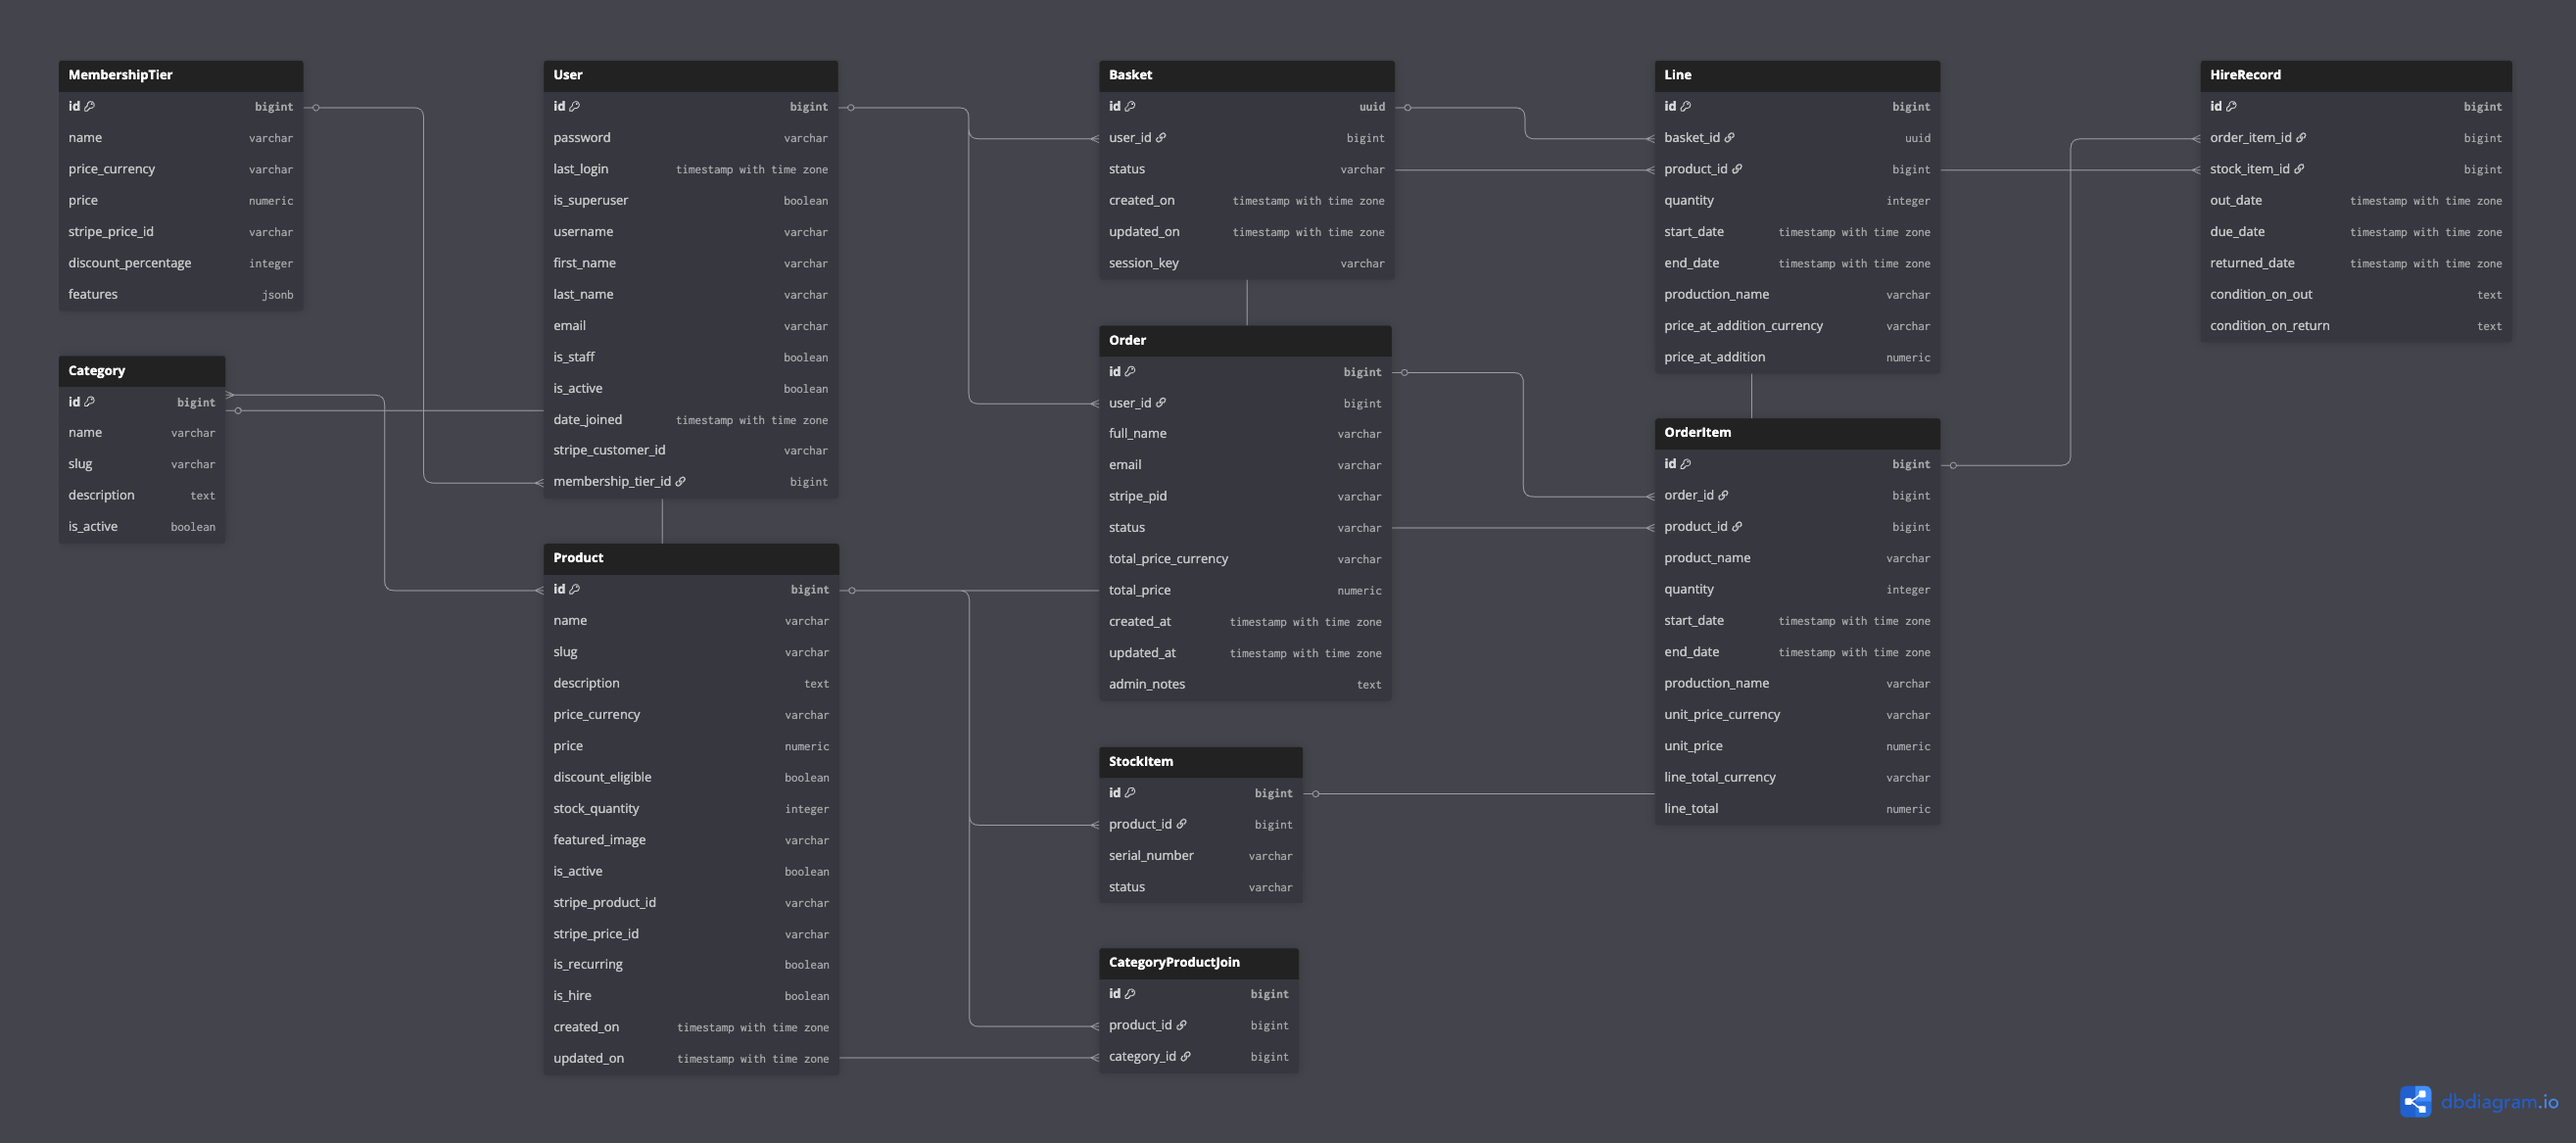
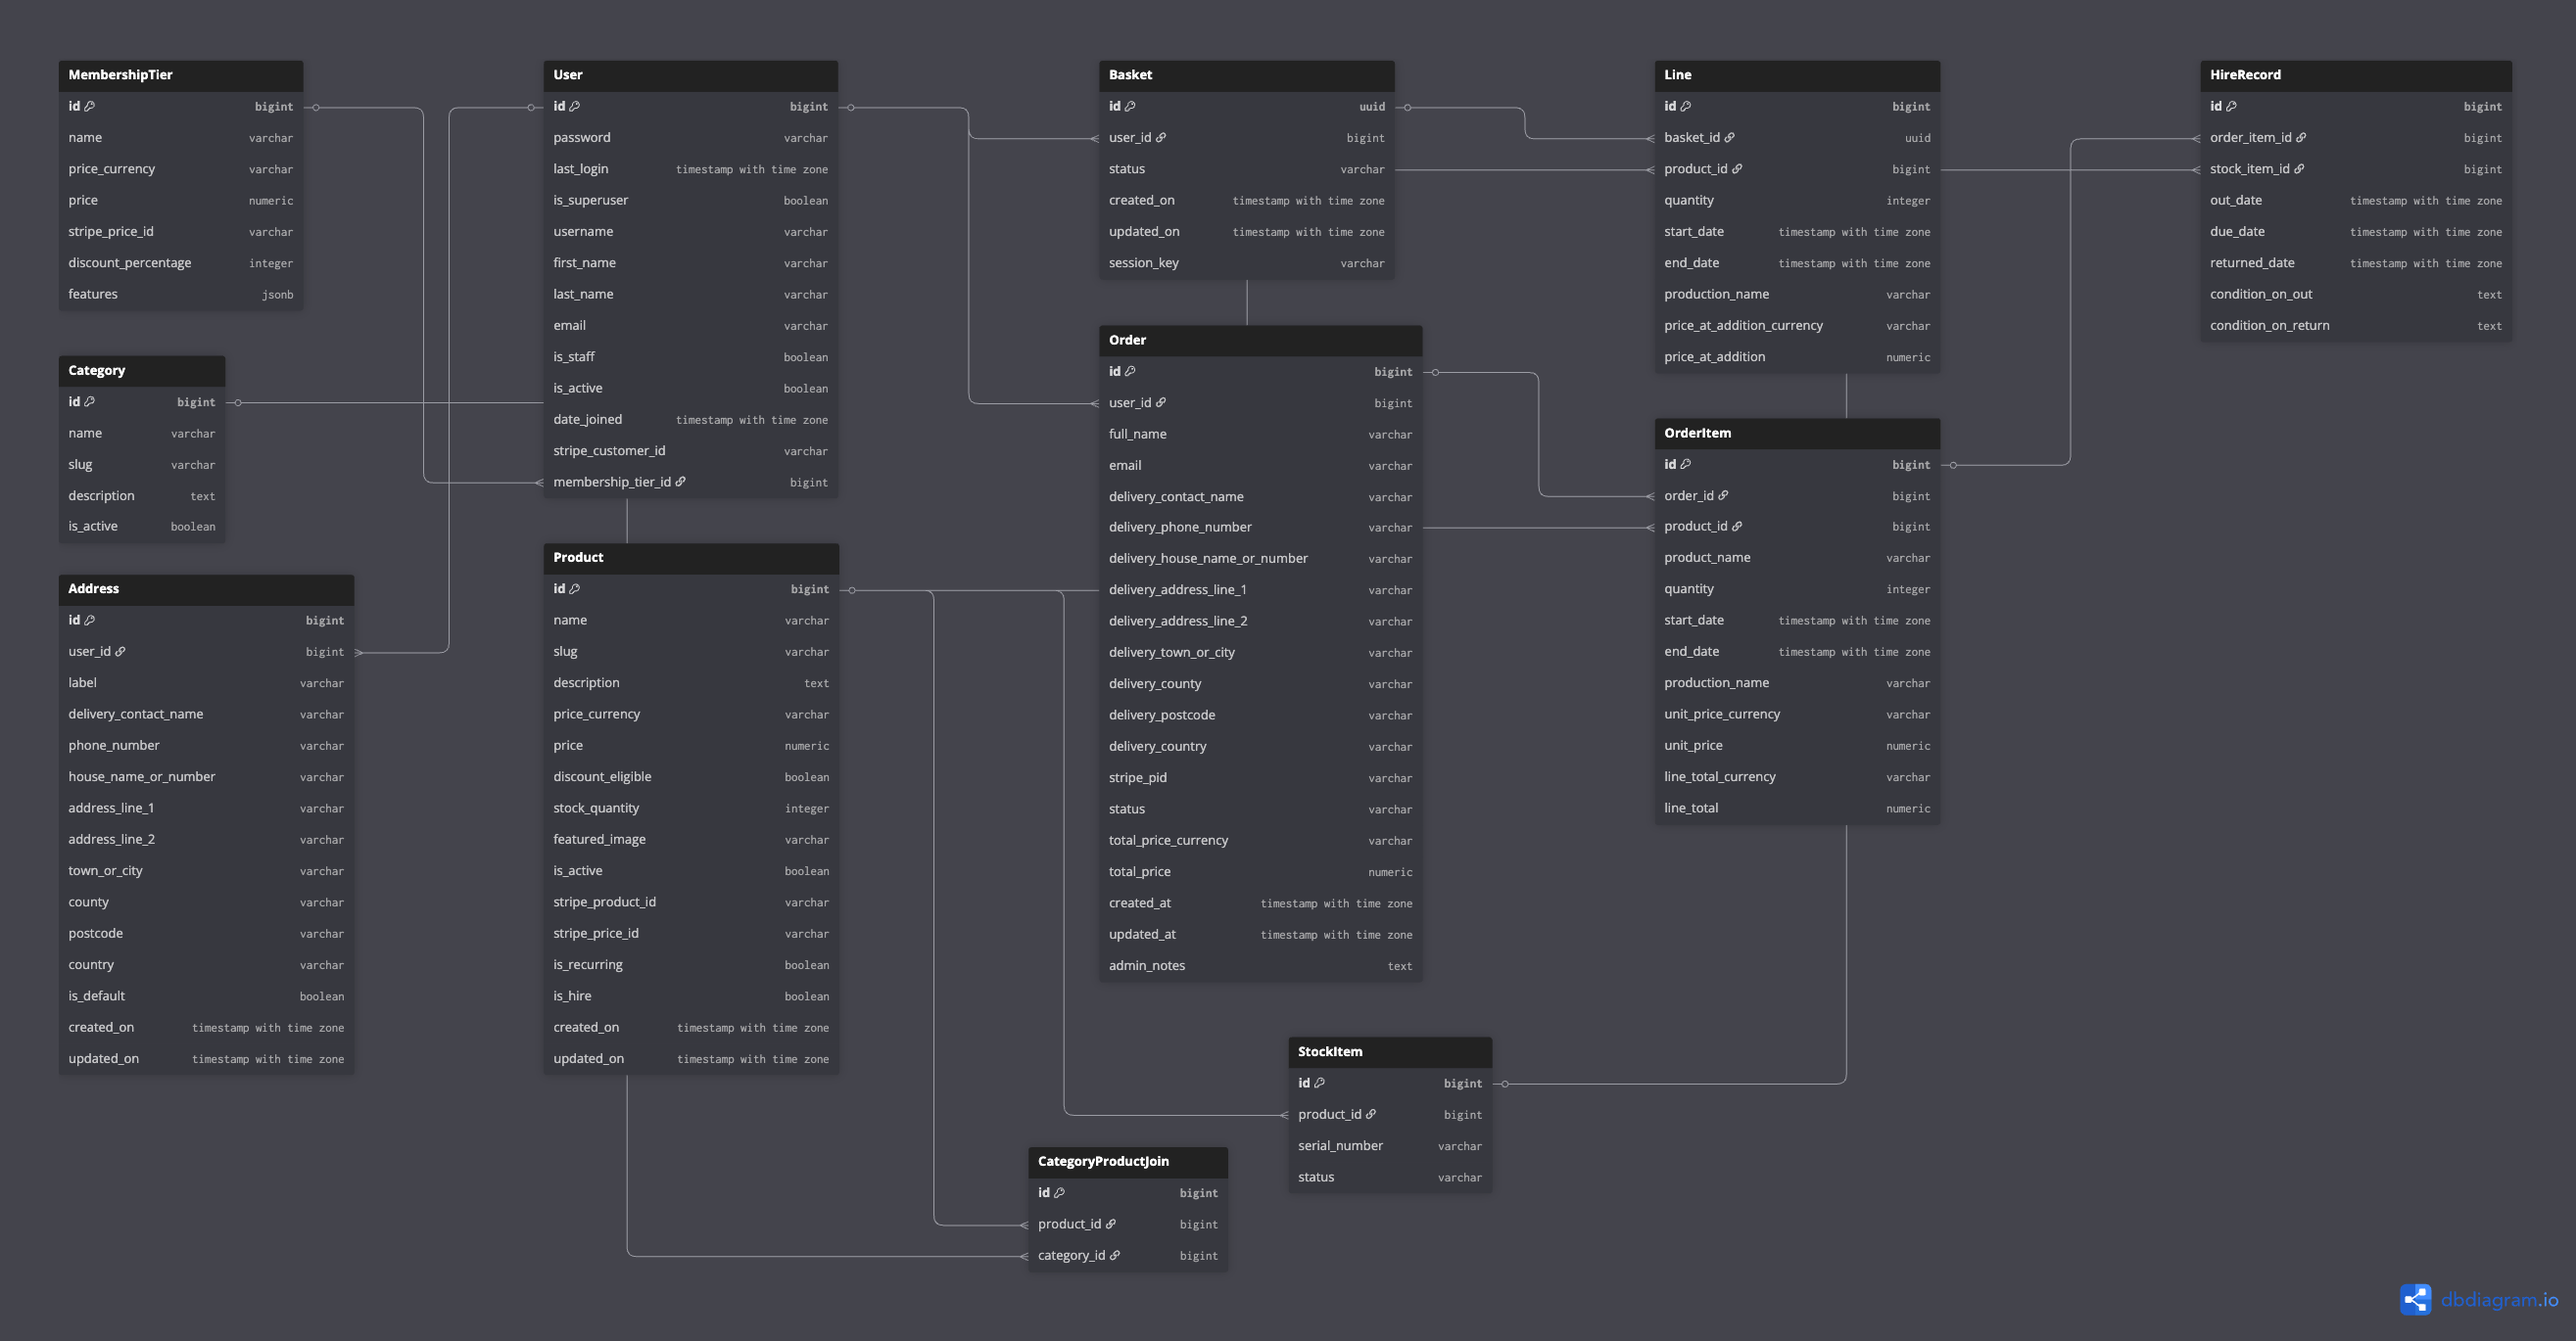
docs: update database design documentation to include Address entity and relationships

diff --git a/documentation/database/database-design.md b/documentation/database/database-design.md
@@ -14,7 +14,7 @@ PropHouse uses a relational database schema designed to support:
 The schema is intentionally separated into distinct business domains:
 
 - **catalogue data** — products, categories, and pricing information.
-- **customer data** — user accounts and membership tiers.
+- **customer data** — user accounts, membership tiers, and saved delivery addresses.
 - **basket data** — pre-purchase selections and pricing snapshots.
 - **commerce data** — completed orders and purchased items.
 - **warehouse data** — physical inventory management and hire tracking.
@@ -50,29 +50,30 @@ Instead:
 
 ### Customer Domain
 
-- `MembershipTier` → `User`: One-to-many.
-- `User` → `Basket`: One-to-many.
-- `User` → `Order`: One-to-many.
+- `MembershipTier` > `User`: One-to-many.
+- `User` > `Address`: One-to-many.
+- `User` > `Basket`: One-to-many.
+- `User` > `Order`: One-to-many.
 
 ### Catalogue Domain
 
-- `Product` ↔ `Category`: Many-to-many via `CategoryProductJoin`.
-- `Product` → `StockItem`: One-to-many.
+- `Product` <> `Category`: Many-to-many via `CategoryProductJoin`.
+- `Product` > `StockItem`: One-to-many.
 
 ### Basket Domain
 
-- `Basket` → `Line`: One-to-many.
-- `Product` → `Line`: One-to-many.
+- `Basket` > `Line`: One-to-many.
+- `Product` > `Line`: One-to-many.
 
 ### Commerce Domain
 
-- `Order` → `OrderItem`: One-to-many.
-- `Product` → `OrderItem`: One-to-many.
+- `Order` > `OrderItem`: One-to-many.
+- `Product` > `OrderItem`: One-to-many.
 
 ### Warehouse Domain
 
-- `StockItem` → `HireRecord`: One-to-many.
-- `OrderItem` → `HireRecord`: One-to-many.
+- `StockItem` > `HireRecord`: One-to-many.
+- `OrderItem` > `HireRecord`: One-to-many.
 
 ---
 
@@ -129,6 +130,36 @@ Stores Stripe customer references and active membership tier assignments.
 
 ---
 
+### `Address` (`accounts` app)
+
+Stores reusable customer delivery address details for authenticated users.
+
+#### Key Fields
+
+- `id`
+- `user`
+- `label`
+- `delivery_contact_name`
+- `phone_number`
+- `house_name_or_number`
+- `address_line_1`
+- `address_line_2`
+- `town_or_city`
+- `county`
+- `postcode`
+- `country`
+- `is_default`
+- `created_on`
+- `updated_on`
+
+#### Notes
+
+`Address` records allow authenticated customers to save reusable delivery details for checkout.
+
+A user may have multiple saved addresses, but application business logic ensures that only one address is treated as the default address at a time. This supports faster repeat checkout while keeping delivery details customer-owned and separate from completed order records.
+
+---
+
 ### `Category` (`catalogue` app)
 
 Provides product grouping and catalogue organisation.
@@ -171,7 +202,7 @@ Represents a hireable or purchasable catalogue item.
 
 ### `CategoryProductJoin` (`catalogue` app)
 
-Join model implementing the `Product` ↔ `Category` many-to-many relationship.
+Join model implementing the `Product` <> `Category` many-to-many relationship.
 
 #### Key Fields
 
@@ -231,6 +262,15 @@ Represents a completed checkout transaction.
 - `user`
 - `full_name`
 - `email`
+- `delivery_contact_name`
+- `delivery_phone_number`
+- `delivery_house_name_or_number`
+- `delivery_address_line_1`
+- `delivery_address_line_2`
+- `delivery_town_or_city`
+- `delivery_county`
+- `delivery_postcode`
+- `delivery_country`
 - `stripe_pid`
 - `status`
 - `total_price`
@@ -239,6 +279,8 @@ Represents a completed checkout transaction.
 #### Notes
 
 `Order` records are created after successful payment confirmation.
+
+Delivery details are stored directly on the order as purchase-time snapshots. This preserves the exact address used for fulfilment even if the customer later edits or deletes their saved address.
 
 ---
 
@@ -305,9 +347,9 @@ Represents the lifecycle of a hired inventory item.
 ## App Ownership Summary
 
 - **core**: Shared UI, static pages, site-wide templates, HTMX integrations, and general platform concerns.
-- **accounts**: `User` and `MembershipTier`.
+- **accounts**: `User`, `MembershipTier`, and `Address`.
 - **catalogue**: `Product`, `Category`, and `CategoryProductJoin`.
 - **basket**: `Basket` and `Line`.
 - **commerce**: `Order`, `OrderItem`, checkout processing, and Stripe payment handling.
 - **warehouse**: `StockItem` and `HireRecord`.
-- **profiles**: Reserved for future customer-owned profile data.
+- **profiles**: Reserved for future customer-owned profile data not currently covered by `accounts`.
